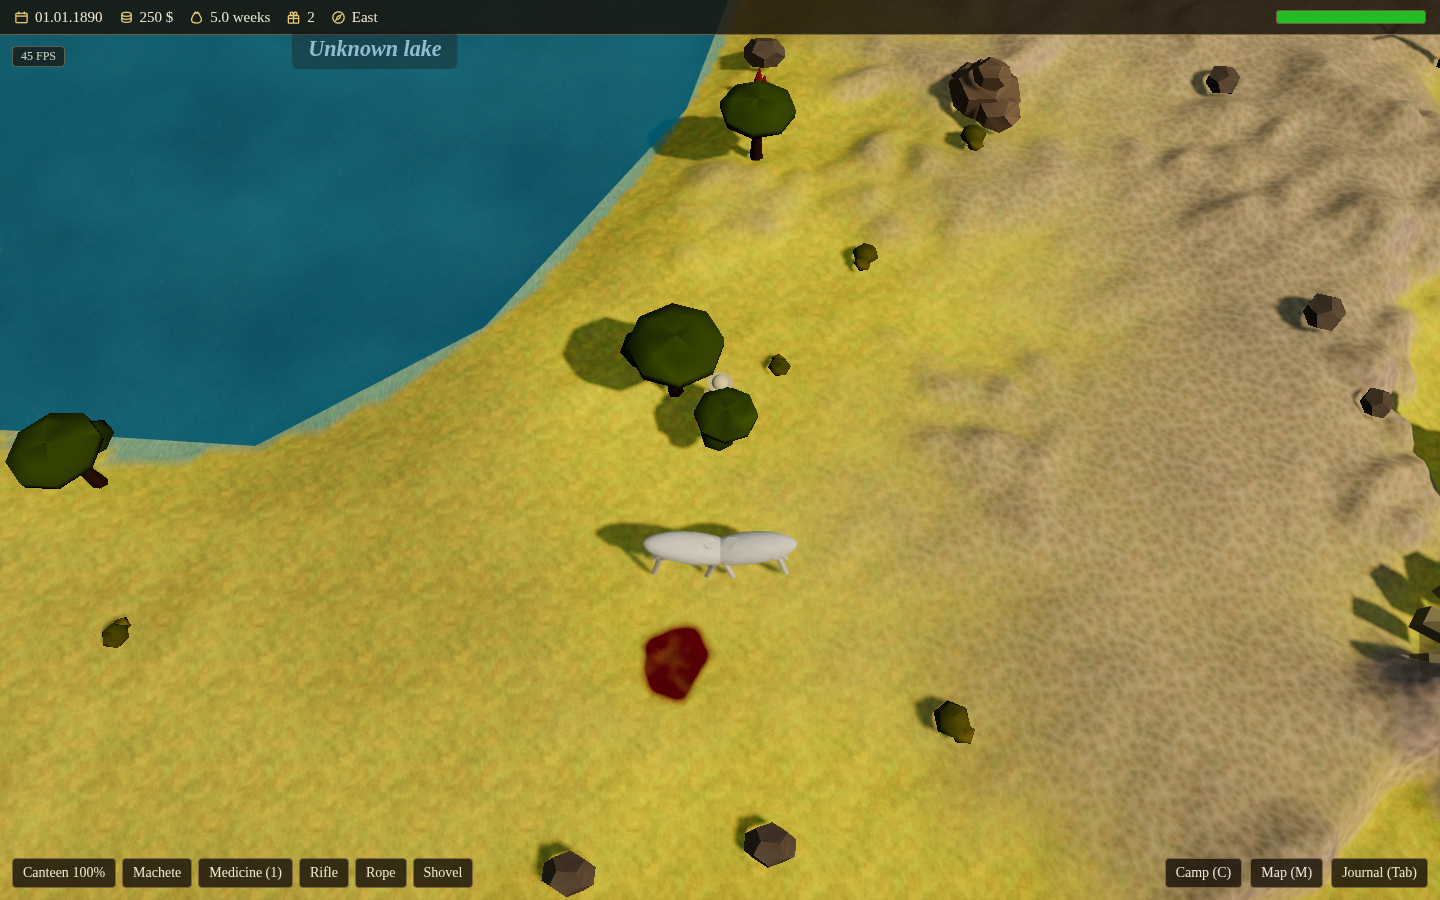
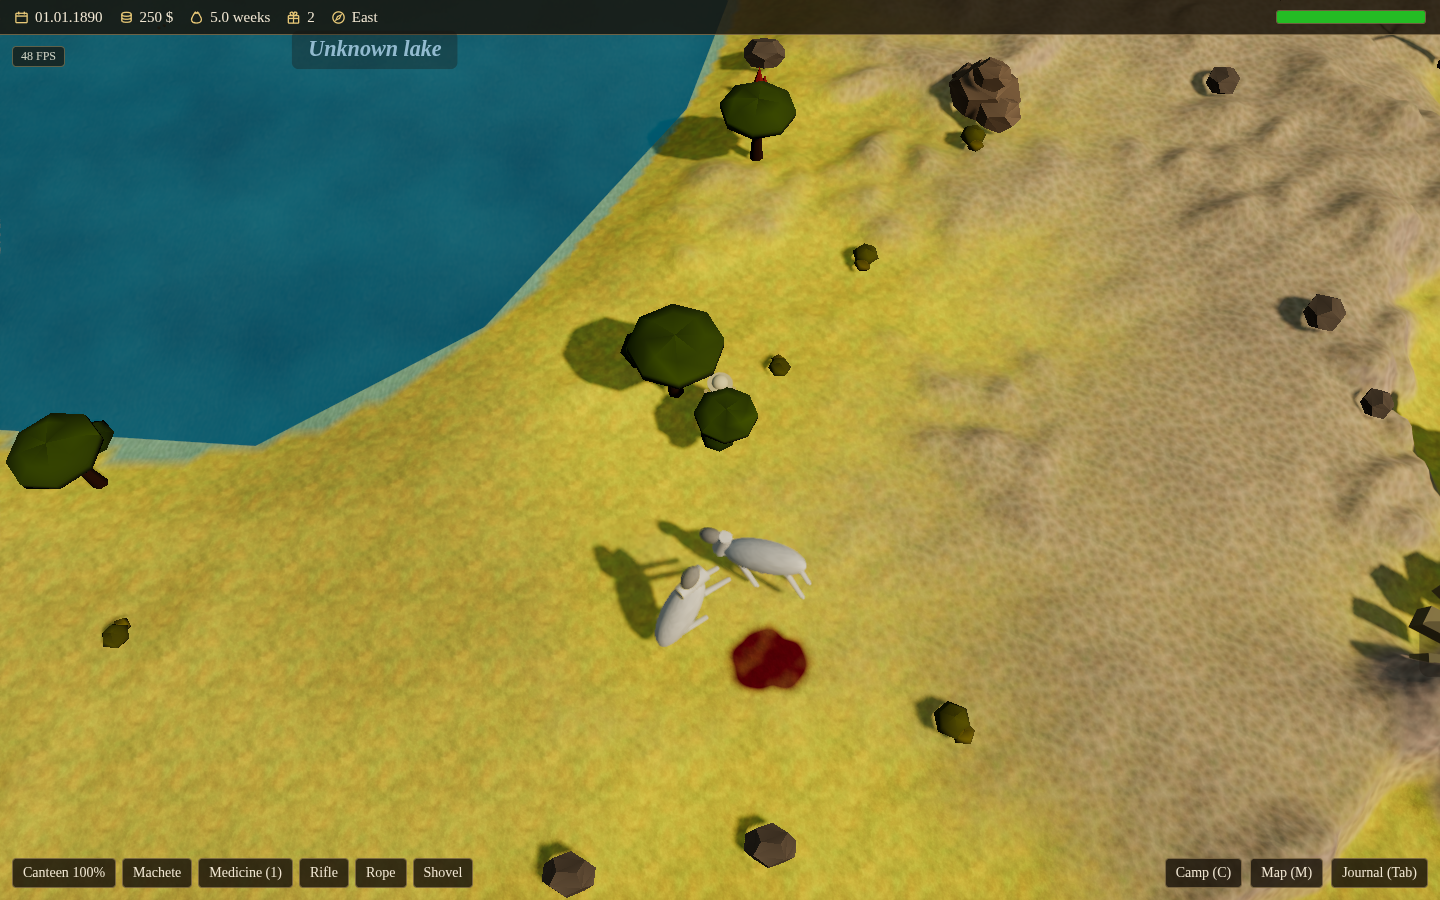
Hold the rear so the clash is legible at any instant, and type the fight tests
The rear was a plain sine, which sits near zero most of its cycle: whatever
moment the eye — or the shutter — caught, both bodies were level and the
alternation the pose depends on never showed. It is saturated now, held near
its top for the bulk of each half-cycle and swapping quickly, so about four
instants in five catch one animal up on its hind legs while the other bores in
low, and no instant catches the pair merely standing. The rear and drive
amplitudes go with it.

The rendered pitch is exposed on the animal so the verification can hold its
shutter for the moment the two are in OPPOSITE postures, making the evidence
frame the fight at its most legible rather than whichever instant it caught.

`tsc -p tsconfig.vitest.json` — the test type-check `npm run test:unit` does not
run — was already red on this branch: the fightPairBroken helpers built their
sides as bare `{}`. They take FightSide now, and the new pose helpers are typed.

Changed region(s): [[0.4062, 0.56, 0.5625, 0.7778]]

diff --git a/src/scenes/travel/wildlifeBehavior.test.ts b/src/scenes/travel/wildlifeBehavior.test.ts
@@ -107,6 +107,7 @@ import {
   fightPairBroken,
   clashOver,
   clashPose,
+  type FightSide,
   parentAttackOutcome,
   parentDefends,
   findAdopter,
@@ -4437,7 +4438,7 @@ describe('clashPose — the clash READS as a fight from the bird\'s-eye (point 2
   const TO_FOE_B = -Math.PI / 2
   const PHASE = 0.3
   /** Both sides at one instant, at their rendered spots. */
-  const bout = (t, intensity = 1) => {
+  const bout = (t: number, intensity = 1) => {
     const a = clashPose(t, PHASE, true, TO_FOE_A, intensity)
     const b = clashPose(t, PHASE, false, TO_FOE_B, intensity)
     return {
@@ -4448,7 +4449,7 @@ describe('clashPose — the clash READS as a fight from the bird\'s-eye (point 2
   }
   /** Smallest angle between two headings, folded to [0, pi/2] — a body and its
    *  opposite lie on the SAME line, which is exactly what must not happen. */
-  const offLine = (u, v) => {
+  const offLine = (u: number, v: number) => {
     let d = Math.abs(((u - v) % Math.PI) + Math.PI) % Math.PI
     return Math.min(d, Math.PI - d)
   }
@@ -4498,6 +4499,23 @@ describe('clashPose — the clash READS as a fight from the bird\'s-eye (point 2
     expect(swapped.length).toBeGreaterThan(0)
   })
 
+  it('the rear is HELD, so most instants catch the two in opposite postures', () => {
+    // A plain sine sits near zero most of the time, which left both bodies
+    // level at whatever moment the eye — or the shutter — caught them. The
+    // saturated rear must be at its top for the bulk of its half-cycle.
+    const opposed = SAMPLES.filter((t) => {
+      const { a, b } = bout(t)
+      return (a.pitch < -0.5 && b.pitch > 0.1) || (b.pitch < -0.5 && a.pitch > 0.1)
+    })
+    expect(opposed.length / SAMPLES.length).toBeGreaterThan(0.6)
+    // And no instant catches the pair merely STANDING: at every moment at
+    // least one body is well off level — reared, or head-down and boring in.
+    for (const t of SAMPLES) {
+      const { a, b } = bout(t)
+      expect(Math.max(Math.abs(a.pitch), Math.abs(b.pitch))).toBeGreaterThan(0.3)
+    }
+  })
+
   it('a rearing body rises, so it stands on its hind legs instead of through the turf', () => {
     const reared = SAMPLES.map((t) => bout(t).a).filter((p) => p.pitch < -0.5)
     expect(reared.length).toBeGreaterThan(0)
@@ -4541,9 +4559,9 @@ describe('clashPose — the clash READS as a fight from the bird\'s-eye (point 2
 
 describe('fightPairBroken — nobody is left engaged with a body that is gone (point 264)', () => {
   /** A live, mutually engaged pair. */
-  const pair = () => {
-    const one = {}
-    const two = {}
+  const pair = (): FightSide[] => {
+    const one: FightSide = {}
+    const two: FightSide = {}
     one.fight = { foe: two }
     two.fight = { foe: one }
     return [one, two]

diff --git a/src/scenes/travel/wildlifeBehavior.ts b/src/scenes/travel/wildlifeBehavior.ts
@@ -2781,7 +2781,12 @@ export function clashPose(
   const side = aggressor ? 1 : -1
   const drive = Math.sin(t * g.rate + ph)
   const wheel = Math.sin(t * g.rate * 0.37 + ph) * g.wheel * k
-  const rear = Math.max(0, Math.sin(t * g.rate * 0.5 + ph + (aggressor ? 0 : Math.PI)))
+  // Saturated, not a plain sine: the rear is HELD near its top for most of its
+  // half-cycle and swaps quickly, so at ~4 instants in 5 one animal is plainly
+  // up while the other bores in low. A sine spends most of its time near zero,
+  // which left both bodies level at whatever moment the eye (or the shutter)
+  // happened to catch them.
+  const rear = Math.min(1, Math.max(0, Math.sin(t * g.rate * 0.5 + ph + (aggressor ? 0 : Math.PI)) * 3))
   const yaw = toFoe + side * g.splay * k + wheel
   // Turning about the HEAD, not the body centre: translate back by what the
   // turn moved the muzzle, so the contact point holds and only the rump swings.
@@ -2816,9 +2821,9 @@ export const CLASH_POSE: ClashPoseGeometry = {
   wheel: 0.45, // how far the locked pair swings about its contact point
   shove: 0.5, // how far the drive carries the pair along the contact line
   gap: 0.16, // how far the contact gap itself works open and shut
-  rear: 0.85, // the front lifted on the rearing beat
-  drive: 0.38, // the head dropped on the driving beat
-  stance: 0.62, // half the stance length: the rise that keeps the low end's feet down
+  rear: 0.95, // the front lifted on the rearing beat
+  drive: 0.45, // the head dropped on the driving beat — heads low and forward, boring in
+  stance: 0.66, // half the stance length: the rise that keeps the low end's feet down
   rate: 2.6, // a fast, worrying rhythm
 }
 

diff --git a/src/scenes/travel/Wildlife.tsx b/src/scenes/travel/Wildlife.tsx
@@ -464,6 +464,13 @@ interface Animal {
   /** Sim-seconds until this animal's next "wants to fight" roll — the
    *  disposition's cadence, so the rate is per interval and not per frame. */
   fightRollAt?: number
+  /** The pitch the clash pose rendered this frame (negative = reared, positive
+   *  = head down and boring in). Written only in the clash render branch and
+   *  never read by the sim: it lets the verification hold its shutter for the
+   *  moment the two are in OPPOSITE postures, so the evidence frame shows the
+   *  fight at its most legible instead of whichever instant it happened to
+   *  catch. */
+  clashPitch?: number
   /** DEV-ONLY (point 268): the last rendered world (x,z) of a crocodile's
    *  seized victim — its jaws anchor — so the enrichments check can read the
    *  jaws placement back without a render-matrix probe. Set only in the
@@ -4604,6 +4611,7 @@ function Herds() {
               px += cp.dx
               pz += cp.dz
               pitch = cp.pitch
+              a.clashPitch = cp.pitch
               // Rise with the pitch so the down-tilted end keeps its feet on the
               // ground: a rearing animal stands on its hind legs, it does not
               // drive them through the turf.
